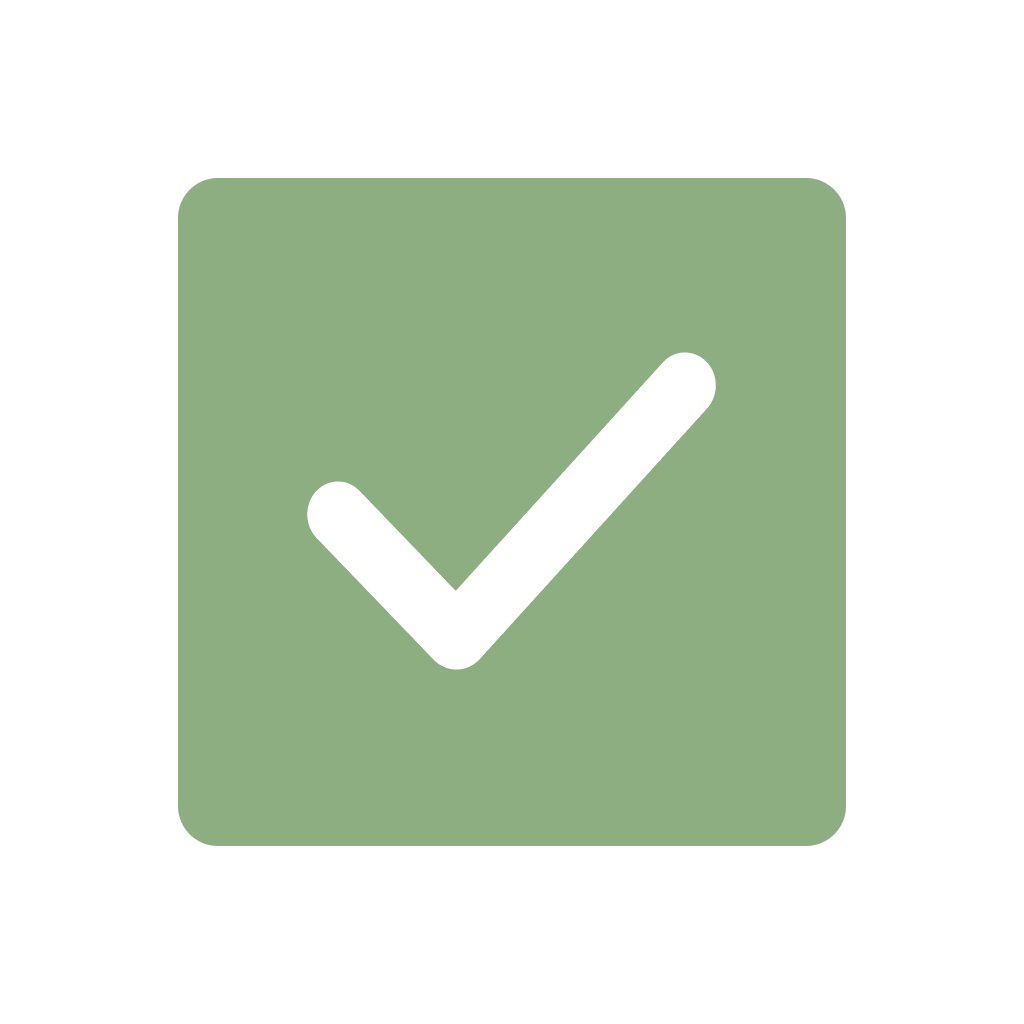
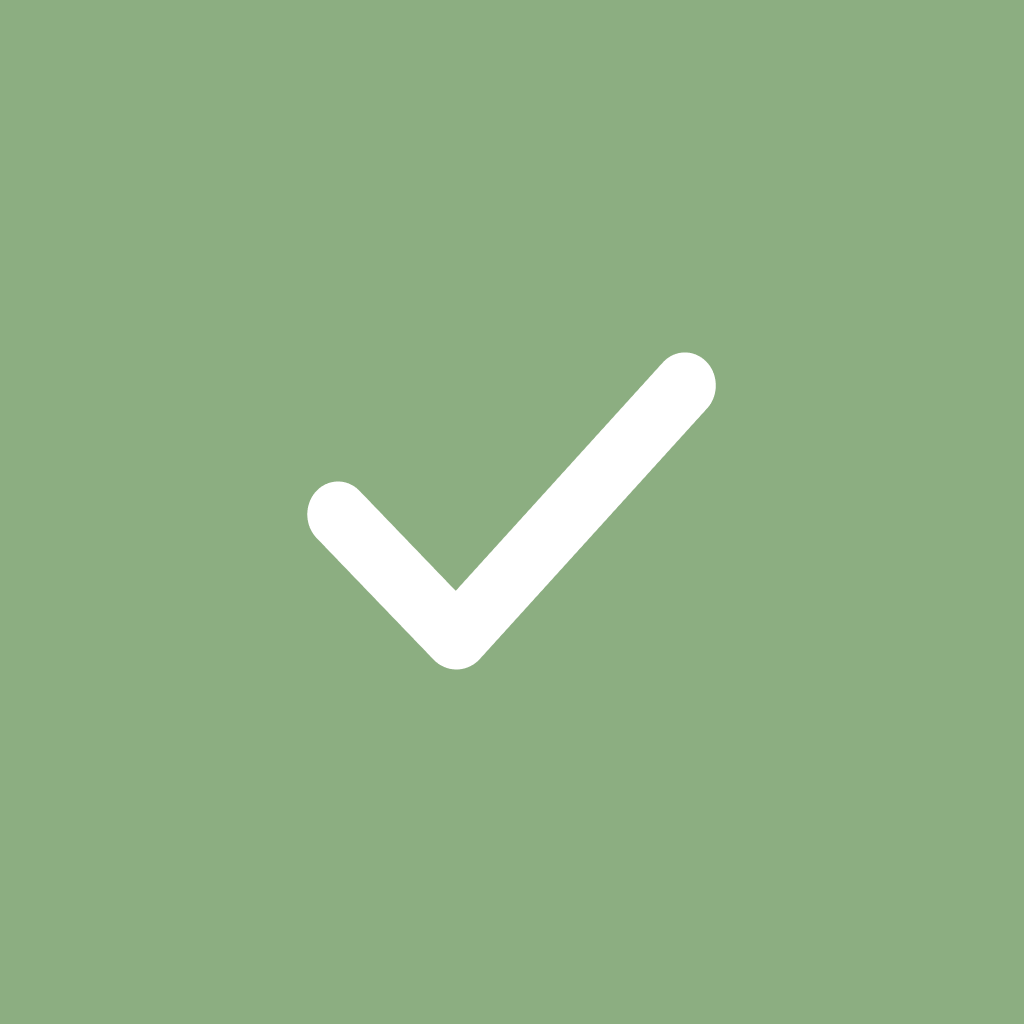
Arreglando erroes

diff --git a/App.js b/App.js
@@ -1,11 +1,12 @@
 import { StyleSheet, Platform, TouchableOpacity, Keyboard } from 'react-native';
-import React, { useEffect, useState } from 'react';
+import React, { useEffect } from 'react';
 import { useFonts } from 'expo-font';
 import * as SplashScreen from 'expo-splash-screen';
 import { createStackNavigator, TransitionPresets } from '@react-navigation/stack';
 import { NavigationContainer } from '@react-navigation/native';
 import { GestureHandlerRootView } from 'react-native-gesture-handler';
 import { createBottomTabNavigator } from '@react-navigation/bottom-tabs';
+import { enableScreens } from 'react-native-screens'; //Importando para mejorar la navegacion ya que me esta dando problemas y la app se cierra
 
 // Importando iconos y marcando los iconos usables
 import Icon from 'react-native-vector-icons/AntDesign'; // Para icono de Home -  home
@@ -31,6 +32,8 @@ import CustomTabBar from './components/CustomTabBar';
 // Declarando constantes para las funciones de navegacion de pantallas
 const Stack = createStackNavigator();
 const Tab = createBottomTabNavigator();
+
+enableScreens(); //Mejorando la navegacion
 
 
 function HomeTabs () {

diff --git a/screens/List.js b/screens/List.js
@@ -1,5 +1,5 @@
 import React, { useState, useEffect } from 'react';
-import { View, StyleSheet, TextInput, Keyboard, TouchableWithoutFeedback, ScrollView, TouchableOpacity, Alert } from 'react-native';
+import { View, StyleSheet, TextInput, Keyboard, TouchableWithoutFeedback, ScrollView, TouchableOpacity, Alert} from 'react-native';
 import AsyncStorage from '@react-native-async-storage/async-storage';
 import Checkbox from 'expo-checkbox'; // Importamos el componente Checkbox de Expo
 
